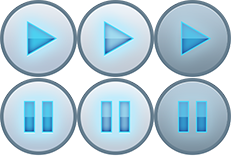
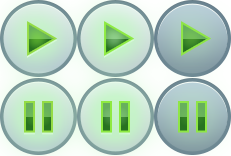
Изменение цветовой гаммы. Кнопка информации показывается на более продолжительный период времени.

diff --git a/player/css/player.css b/player/css/player.css
@@ -1037,6 +1037,7 @@ https://github.com/videojs/video.js/blob/master/src/css/video-js.less */.vjs-def
   font-family: 'PT Sans', sans-serif;
   font-size: 12px;
   color: #0891d8;
+  color: #439539;
   float: none;
   position: absolute;
   top: 87px;
@@ -1067,28 +1068,28 @@ https://github.com/videojs/video.js/blob/master/src/css/video-js.less */.vjs-def
   background-color: transparent;
 }
 .vjs-default-skin .vjs-control-bar .vjs-play-progress {
-  background: #65a6d5;
+  background: #67bb5b;
   /* Old browsers */
 
-  background: -moz-linear-gradient(top, #65a6d5 0%, #4cd1f0 50%, #3cbfe5 50%, #2868ad 100%);
+  background: -moz-linear-gradient(top, #67bb5b 0%, #66d757 50%, #54c647 50%, #348b2b 100%);
   /* FF3.6+ */
 
-  background: -webkit-gradient(linear, left top, left bottom, color-stop(0%, #65a6d5), color-stop(50%, #4cd1f0), color-stop(50%, #3cbfe5), color-stop(100%, #2868ad));
+  background: -webkit-gradient(linear, left top, left bottom, color-stop(0%, #67bb5b), color-stop(50%, #66d757), color-stop(50%, #54c647), color-stop(100%, #348b2b));
   /* Chrome,Safari4+ */
 
-  background: -webkit-linear-gradient(top, #65a6d5 0%, #4cd1f0 50%, #3cbfe5 50%, #2868ad 100%);
+  background: -webkit-linear-gradient(top, #67bb5b 0%, #66d757 50%, #54c647 50%, #348b2b 100%);
   /* Chrome10+,Safari5.1+ */
 
-  background: -o-linear-gradient(top, #65a6d5 0%, #4cd1f0 50%, #3cbfe5 50%, #2868ad 100%);
+  background: -o-linear-gradient(top, #67bb5b 0%, #66d757 50%, #54c647 50%, #348b2b 100%);
   /* Opera 11.10+ */
 
-  background: -ms-linear-gradient(top, #65a6d5 0%, #4cd1f0 50%, #3cbfe5 50%, #2868ad 100%);
+  background: -ms-linear-gradient(top, #67bb5b 0%, #66d757 50%, #54c647 50%, #348b2b 100%);
   /* IE10+ */
 
-  background: linear-gradient(to bottom, #65a6d5 0%, #4cd1f0 50%, #3cbfe5 50%, #2868ad 100%);
+  background: linear-gradient(to bottom, #67bb5b 0%, #66d757 50%, #54c647 50%, #348b2b 100%);
   /* W3C */
 
-  filter: progid:DXImageTransform.Microsoft.gradient(startColorstr='#65a6d5', endColorstr='#2868ad', GradientType=0);
+  filter: progid:DXImageTransform.Microsoft.gradient(startColorstr='#67bb5b', endColorstr='#348b2b', GradientType=0);
   /* IE6-9 */
 
   /* border-radius */
@@ -1096,9 +1097,9 @@ https://github.com/videojs/video.js/blob/master/src/css/video-js.less */.vjs-def
   -moz-border-radius: 7px;
   border-radius: 7px;
   /* box-shadow */
-  -webkit-box-shadow: 0 0 21px #00d8ff;
-  -moz-box-shadow: 0 0 21px #00d8ff;
-  box-shadow: 0 0 21px #00d8ff;
+  -webkit-box-shadow: 0 0 21px rgba(194,247,195,0.75), inset 0 0 0 1px #79e320, inset 0 0 7px rgba(0,0,0,0.5);
+  -moz-box-shadow: 0 0 21px rgba(194,247,195,0.75), inset 0 0 0 1px #79e320, inset 0 0 7px rgba(0,0,0,0.5);
+  box-shadow: 0 0 21px rgba(194,247,195,0.75), inset 0 0 0 1px #79e320, inset 0 0 7px rgba(0,0,0,0.5);
 }
 .vjs-default-skin .vjs-big-play-button {
   display: none;
@@ -1191,28 +1192,28 @@ https://github.com/videojs/video.js/blob/master/src/css/video-js.less */.vjs-def
   box-shadow: 0 0 15px #ffffff;
 }
 .vjs-default-skin .vjs-volume-level {
-  background: #65a6d5;
+  background: #67bb5b;
   /* Old browsers */
 
-  background: -moz-linear-gradient(top, #65a6d5 0%, #4cd1f0 50%, #3cbfe5 50%, #2868ad 100%);
+  background: -moz-linear-gradient(top, #67bb5b 0%, #66d757 50%, #54c647 50%, #348b2b 100%);
   /* FF3.6+ */
 
-  background: -webkit-gradient(linear, left top, left bottom, color-stop(0%, #65a6d5), color-stop(50%, #4cd1f0), color-stop(50%, #3cbfe5), color-stop(100%, #2868ad));
+  background: -webkit-gradient(linear, left top, left bottom, color-stop(0%, #67bb5b), color-stop(50%, #66d757), color-stop(50%, #54c647), color-stop(100%, #348b2b));
   /* Chrome,Safari4+ */
 
-  background: -webkit-linear-gradient(top, #65a6d5 0%, #4cd1f0 50%, #3cbfe5 50%, #2868ad 100%);
+  background: -webkit-linear-gradient(top, #67bb5b 0%, #66d757 50%, #54c647 50%, #348b2b 100%);
   /* Chrome10+,Safari5.1+ */
 
-  background: -o-linear-gradient(top, #65a6d5 0%, #4cd1f0 50%, #3cbfe5 50%, #2868ad 100%);
+  background: -o-linear-gradient(top, #67bb5b 0%, #66d757 50%, #54c647 50%, #348b2b 100%);
   /* Opera 11.10+ */
 
-  background: -ms-linear-gradient(top, #65a6d5 0%, #4cd1f0 50%, #3cbfe5 50%, #2868ad 100%);
+  background: -ms-linear-gradient(top, #67bb5b 0%, #66d757 50%, #54c647 50%, #348b2b 100%);
   /* IE10+ */
 
-  background: linear-gradient(to bottom, #65a6d5 0%, #4cd1f0 50%, #3cbfe5 50%, #2868ad 100%);
+  background: linear-gradient(to bottom, #67bb5b 0%, #66d757 50%, #54c647 50%, #348b2b 100%);
   /* W3C */
 
-  filter: progid:DXImageTransform.Microsoft.gradient(startColorstr='#65a6d5', endColorstr='#2868ad', GradientType=0);
+  filter: progid:DXImageTransform.Microsoft.gradient(startColorstr='#67bb5b', endColorstr='#348b2b', GradientType=0);
   /* IE6-9 */
 
   height: 15px;
@@ -1221,9 +1222,9 @@ https://github.com/videojs/video.js/blob/master/src/css/video-js.less */.vjs-def
   -moz-border-radius: 7px;
   border-radius: 7px;
   /* box-shadow */
-  -webkit-box-shadow: 0 0 21px #00d8ff;
-  -moz-box-shadow: 0 0 21px #00d8ff;
-  box-shadow: 0 0 21px #00d8ff;
+  -webkit-box-shadow: 0 0 21px rgba(194,247,195,0.75), inset 0 0 0 1px #79e320, inset 0 0 7px rgba(0,0,0,0.5);
+  -moz-box-shadow: 0 0 21px rgba(194,247,195,0.75), inset 0 0 0 1px #79e320, inset 0 0 7px rgba(0,0,0,0.5);
+  box-shadow: 0 0 21px rgba(194,247,195,0.75), inset 0 0 0 1px #79e320, inset 0 0 7px rgba(0,0,0,0.5);
 }
 .vjs-default-skin .vjs-mute-control {
   float: none;
@@ -1452,7 +1453,7 @@ https://github.com/videojs/video.js/blob/master/src/css/video-js.less */.vjs-def
   display: block;
   font-size: 18px;
   line-height: 20px;
-  color: #d1f4ff;
+  color: #dff1d0;
   margin-bottom: 0;
   background-color: transparent;
   background-position: 5px 10px;
@@ -1469,7 +1470,7 @@ https://github.com/videojs/video.js/blob/master/src/css/video-js.less */.vjs-def
   margin-bottom: 0;
 }
 .player-peripherals .menu-container .menu li:hover {
-  background-color: #356776;
+  background-color: #357664;
 }
 .player-peripherals .menu-container .menu li.hide {
   display: none;

diff --git a/player/css/sberbank-skin.less b/player/css/sberbank-skin.less
@@ -53,6 +53,7 @@
 			font-family: 'PT Sans',sans-serif;
 			font-size: 12px;
 			color: @fontColor;
+			color: #439539;
 			float: none;
 			position: absolute;
     		top: 87px;
@@ -82,16 +83,18 @@
 			background-color: transparent;
 		}
 		.vjs-play-progress {
-			background: #65a6d5; /* Old browsers */
-			background: -moz-linear-gradient(top,  #65a6d5 0%, #4cd1f0 50%, #3cbfe5 50%, #2868ad 100%); /* FF3.6+ */
-			background: -webkit-gradient(linear, left top, left bottom, color-stop(0%,#65a6d5), color-stop(50%,#4cd1f0), color-stop(50%,#3cbfe5), color-stop(100%,#2868ad)); /* Chrome,Safari4+ */
-			background: -webkit-linear-gradient(top,  #65a6d5 0%,#4cd1f0 50%,#3cbfe5 50%,#2868ad 100%); /* Chrome10+,Safari5.1+ */
-			background: -o-linear-gradient(top,  #65a6d5 0%,#4cd1f0 50%,#3cbfe5 50%,#2868ad 100%); /* Opera 11.10+ */
-			background: -ms-linear-gradient(top,  #65a6d5 0%,#4cd1f0 50%,#3cbfe5 50%,#2868ad 100%); /* IE10+ */
-			background: linear-gradient(to bottom,  #65a6d5 0%,#4cd1f0 50%,#3cbfe5 50%,#2868ad 100%); /* W3C */
-			filter: progid:DXImageTransform.Microsoft.gradient( startColorstr='#65a6d5', endColorstr='#2868ad',GradientType=0 ); /* IE6-9 */
+			
+			background: #67bb5b; /* Old browsers */
+			background: -moz-linear-gradient(top,  #67bb5b 0%, #66d757 50%, #54c647 50%, #348b2b 100%); /* FF3.6+ */
+			background: -webkit-gradient(linear, left top, left bottom, color-stop(0%,#67bb5b), color-stop(50%,#66d757), color-stop(50%,#54c647), color-stop(100%,#348b2b)); /* Chrome,Safari4+ */
+			background: -webkit-linear-gradient(top,  #67bb5b 0%,#66d757 50%,#54c647 50%,#348b2b 100%); /* Chrome10+,Safari5.1+ */
+			background: -o-linear-gradient(top,  #67bb5b 0%,#66d757 50%,#54c647 50%,#348b2b 100%); /* Opera 11.10+ */
+			background: -ms-linear-gradient(top,  #67bb5b 0%,#66d757 50%,#54c647 50%,#348b2b 100%); /* IE10+ */
+			background: linear-gradient(to bottom,  #67bb5b 0%,#66d757 50%,#54c647 50%,#348b2b 100%); /* W3C */
+			filter: progid:DXImageTransform.Microsoft.gradient( startColorstr='#67bb5b', endColorstr='#348b2b',GradientType=0 ); /* IE6-9 */
 			.border-radius(7px);
-			.box-shadow(0 0 21px #00D8FF);
+			.box-shadow(~'0 0 21px rgba(194,247,195,0.75), inset 0 0 0 1px #79e320, inset 0 0 7px rgba(0,0,0,0.5)');
+
 		}
 	}
 	.vjs-big-play-button {
@@ -160,17 +163,18 @@
 		}
 	}
 	.vjs-volume-level {
-		background: #65a6d5; /* Old browsers */
-		background: -moz-linear-gradient(top,  #65a6d5 0%, #4cd1f0 50%, #3cbfe5 50%, #2868ad 100%); /* FF3.6+ */
-		background: -webkit-gradient(linear, left top, left bottom, color-stop(0%,#65a6d5), color-stop(50%,#4cd1f0), color-stop(50%,#3cbfe5), color-stop(100%,#2868ad)); /* Chrome,Safari4+ */
-		background: -webkit-linear-gradient(top,  #65a6d5 0%,#4cd1f0 50%,#3cbfe5 50%,#2868ad 100%); /* Chrome10+,Safari5.1+ */
-		background: -o-linear-gradient(top,  #65a6d5 0%,#4cd1f0 50%,#3cbfe5 50%,#2868ad 100%); /* Opera 11.10+ */
-		background: -ms-linear-gradient(top,  #65a6d5 0%,#4cd1f0 50%,#3cbfe5 50%,#2868ad 100%); /* IE10+ */
-		background: linear-gradient(to bottom,  #65a6d5 0%,#4cd1f0 50%,#3cbfe5 50%,#2868ad 100%); /* W3C */
-		filter: progid:DXImageTransform.Microsoft.gradient( startColorstr='#65a6d5', endColorstr='#2868ad',GradientType=0 ); /* IE6-9 */
+
+		background: #67bb5b; /* Old browsers */
+		background: -moz-linear-gradient(top,  #67bb5b 0%, #66d757 50%, #54c647 50%, #348b2b 100%); /* FF3.6+ */
+		background: -webkit-gradient(linear, left top, left bottom, color-stop(0%,#67bb5b), color-stop(50%,#66d757), color-stop(50%,#54c647), color-stop(100%,#348b2b)); /* Chrome,Safari4+ */
+		background: -webkit-linear-gradient(top,  #67bb5b 0%,#66d757 50%,#54c647 50%,#348b2b 100%); /* Chrome10+,Safari5.1+ */
+		background: -o-linear-gradient(top,  #67bb5b 0%,#66d757 50%,#54c647 50%,#348b2b 100%); /* Opera 11.10+ */
+		background: -ms-linear-gradient(top,  #67bb5b 0%,#66d757 50%,#54c647 50%,#348b2b 100%); /* IE10+ */
+		background: linear-gradient(to bottom,  #67bb5b 0%,#66d757 50%,#54c647 50%,#348b2b 100%); /* W3C */
+		filter: progid:DXImageTransform.Microsoft.gradient( startColorstr='#67bb5b', endColorstr='#348b2b',GradientType=0 ); /* IE6-9 */
 		height: 15px;
 		.border-radius(7px);
-		.box-shadow(0 0 21px #00D8FF);
+		.box-shadow(~'0 0 21px rgba(194,247,195,0.75), inset 0 0 0 1px #79e320, inset 0 0 7px rgba(0,0,0,0.5)');
 	}
 	.vjs-mute-control {
 		float: none;
@@ -383,7 +387,7 @@
 			li {
 				display: block;
 				font-size: 18px; line-height: 20px;
-				color: #d1f4ff;
+				color: #dff1d0;
 				margin-bottom: 0;
 				background-color: transparent;
 				background-position: 5px 10px;
@@ -396,7 +400,7 @@
 					margin-bottom: 0;
 				}
 				&:hover {
-					background-color: #356776;
+					background-color: #357664;
 				}
 				&.hide {
 					display: none;

diff --git a/player/js/model/player.js b/player/js/model/player.js
@@ -13,8 +13,8 @@
 
 			'settings': {
 				'prev_threshold': 5,
-				'misc_show_at': -15,
-				'misc_hide_at': -5,
+				'misc_show_at': -20,
+				'misc_hide_at': -2,
 				'misc_button_visible_class': 'm-visible'
 			}
 		},
